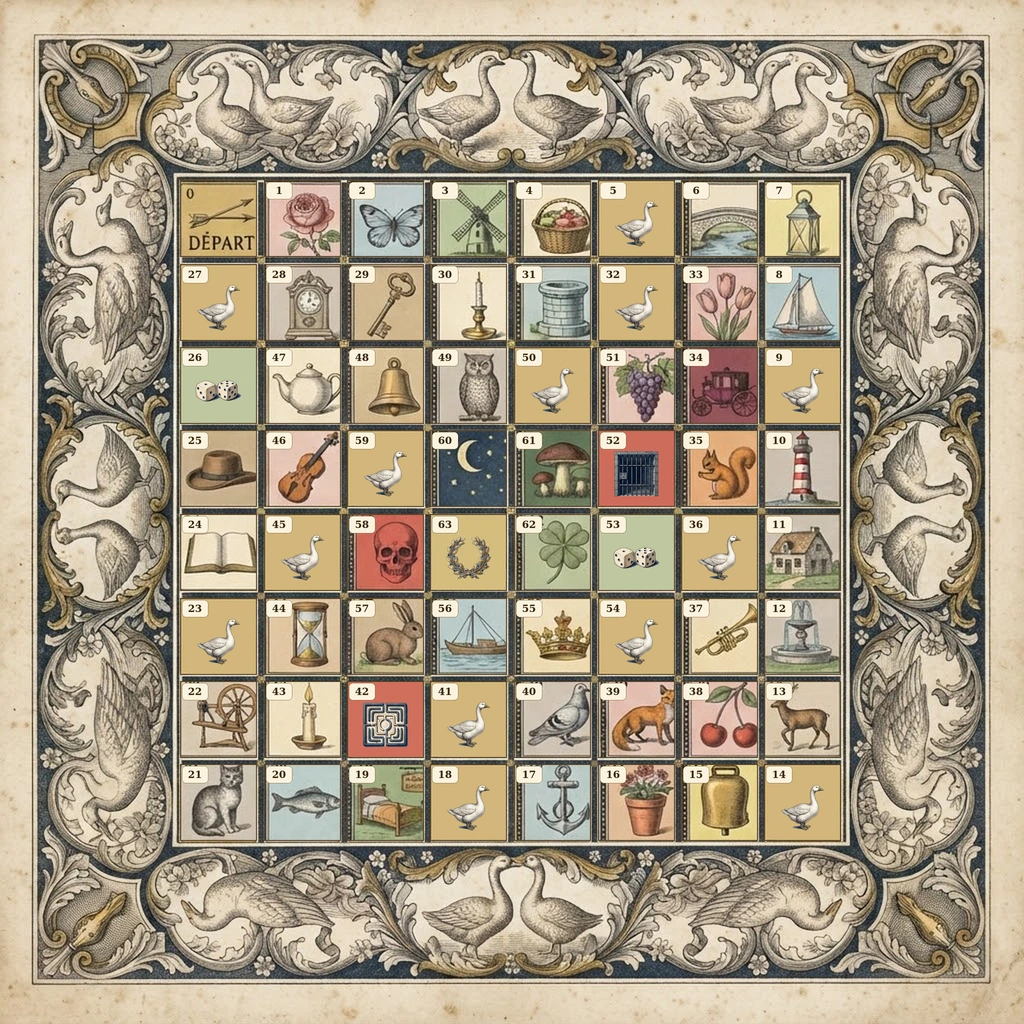
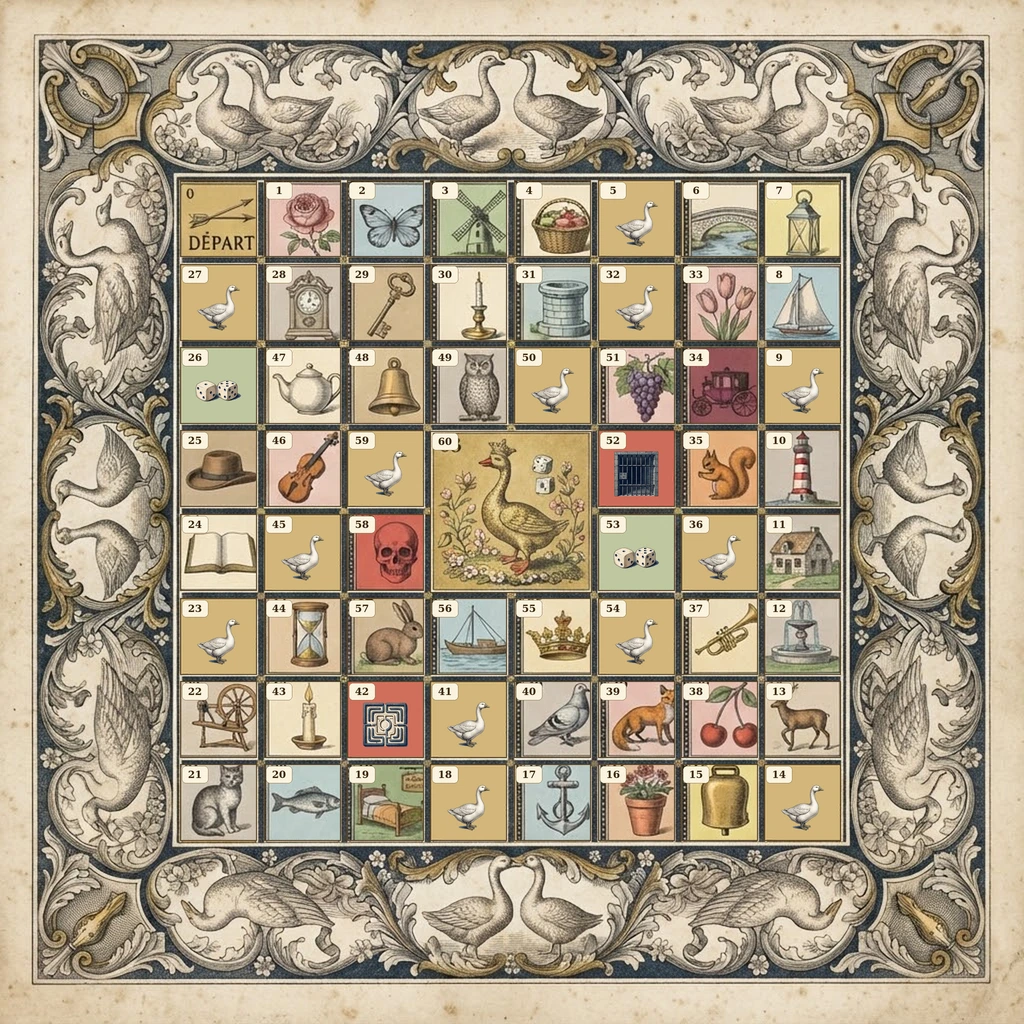
Oie: grande case d'arrivée 2x2 au centre (arrivée case 60)
Claude-Session: https://claude.ai/code/session_01UTaypXBnC3UMfvWUL5q9hs

Changed region(s): [[0.4062, 0.4062, 0.5938, 0.5938]]

diff --git a/oie/index.html b/oie/index.html
@@ -120,17 +120,17 @@ let H=null,peer=null,conns=[],isHost=false,myIdx=0,V=null,roomCode='';
 function nextRound(){}
 
 const GEESE=[5,9,14,18,23,27,32,36,41,45,50,54,59];
-const SPI={6:'bridge',19:'inn',26:'dice',31:'well',42:'maze',52:'prison',53:'dice',58:'skull',63:'crown'};
-const NAMES={6:'Le pont',19:'L’auberge',26:'Les dés',31:'Le puits',42:'Le labyrinthe',52:'La prison',53:'Les dés',58:'La mort',63:'Le jardin de l’oie'};
+const SPI={6:'bridge',19:'inn',26:'dice',31:'well',42:'maze',52:'prison',53:'dice',58:'skull',60:'crown'};
+const NAMES={6:'Le pont',19:'L’auberge',26:'Les dés',31:'Le puits',42:'Le labyrinthe',52:'La prison',53:'Les dés',58:'La mort',60:'Le jardin de l’oie'};
 const SPIRAL=(()=>{const n=8,g=[];let top=0,bot=n-1,left=0,right=n-1;while(top<=bot&&left<=right){for(let c=left;c<=right;c++)g.push([top,c]);top++;for(let r=top;r<=bot;r++)g.push([r,right]);right--;if(top<=bot){for(let c=right;c>=left;c--)g.push([bot,c]);bot--;}if(left<=right){for(let r=bot;r>=top;r--)g.push([r,left]);left++;}}return g;})();
 function hlog(s){H.log=s;}
 const NP=()=>H.pl.length;
-const bounce=p=>p>63?126-p:p;
+const bounce=p=>p>60?120-p:p;
 function settle(i,n,trail){
   const pl=H.pl[i];let guard=0,jumped=false,msgs=[];
   while(guard++<30){
     const p=pl.pos;
-    if(p===63){H.over=true;H.win=i;msgs.push(pl.name+' atteint le jardin de l’oie : victoire !');break;}
+    if(p===60){H.over=true;H.win=i;msgs.push(pl.name+' atteint le jardin de l’oie : victoire !');break;}
     if(GEESE.includes(p)){const nb=bounce(p+n);if(nb===p){msgs.push('Une oie, mais impossible d’avancer de '+n+' : '+pl.name+' reste sur place.');break;}pl.pos=nb;trail.push(pl.pos);H.again=true;msgs.push('Une oie ! '+pl.name+' avance encore de '+n+' et rejoue.');continue;}
     if(p===6){pl.pos=12;trail.push(12);msgs.push('Le pont : '+pl.name+' passe à la case 12.');continue;}
     if(p===19){pl.skip=1;msgs.push('L’auberge : '+pl.name+' passera un tour.');break;}
@@ -166,7 +166,7 @@ function botStep(){if(!H||H.over)return;const i=H.turn;if(!H.pl[i].bot)return;ac
 /* ================= accueil / réseau ================= */
 function showHome(){
   leave();show('home');
-  $('home').innerHTML='<img class="hero" src="icons/icon-192.png" alt=""><h1>Jeu de l’oie</h1><p class="muted">Le grand classique : 63 cases, des oies qui font avancer, un pont, un puits, une prison… Le premier au jardin de l’oie gagne. Contre des robots, ou à plusieurs avec un code.</p>'+
+  $('home').innerHTML='<img class="hero" src="icons/icon-192.png" alt=""><h1>Jeu de l’oie</h1><p class="muted">Le grand classique : 60 cases, des oies qui font avancer, un pont, un puits, une prison… Le premier au jardin de l’oie gagne. Contre des robots, ou à plusieurs avec un code.</p>'+
    '<input id="nm" maxlength="12" placeholder="Ton prénom" value="'+esc(P.name)+'">'+
    '<div class="tabs"><span>Robots :</span>'+[1,2,3,4,5].map(n=>'<button data-b="'+n+'" class="'+(P.bots===n?'on':'')+'">'+n+'</button>').join('')+'</div>'+
    '<button class="ob" id="solo">Jouer contre les robots</button>'+
@@ -180,7 +180,7 @@ function showHome(){
   $('joinB').onclick=()=>{const c=$('cd').value.trim().toUpperCase();if(c.length!==4)return toast('Le code a 4 caractères.');P.code=c;nm();joinOnline(nm(),c);};
   $('rl').onclick=rules;
 }
-function rules(){openOv('<h2>Règles</h2><div style="text-align:left;font-size:13px"><p>Lance les deux dés et avance d’autant de cases. Il faut arriver <b>exactement</b> à la case 63 : si tu dépasses, tu recules de l’excédent.</p><p>🪿 <b>Oie</b> (5, 9, 14, 18…) : tu avances encore du même nombre et tu rejoues.<br>🌉 <b>Pont</b> (6) : direction la case 12.<br>🏠 <b>Auberge</b> (19) : tu passes un tour.<br>🎲 <b>Dés</b> (26 et 53) : tu files à l’autre case des dés.<br>🪣 <b>Puits</b> (31) et ⛓ <b>prison</b> (52) : tu restes bloqué jusqu’à ce qu’un autre joueur arrive sur la case.<br>🌀 <b>Labyrinthe</b> (42) : retour à la case 30.<br>💀 <b>Mort</b> (58) : retour au départ.<br>👑 <b>63</b> : le jardin de l’oie, tu gagnes !</p><p>Au premier lancer, un 6 + 3 t’envoie à la case 26 et un 5 + 4 à la case 53.</p></div><button class="ob" id="x">OK</button>');$('x').onclick=closeOv;}
+function rules(){openOv('<h2>Règles</h2><div style="text-align:left;font-size:13px"><p>Lance les deux dés et avance d’autant de cases. Il faut arriver <b>exactement</b> à la case 60 : si tu dépasses, tu recules de l’excédent.</p><p>🪿 <b>Oie</b> (5, 9, 14, 18…) : tu avances encore du même nombre et tu rejoues.<br>🌉 <b>Pont</b> (6) : direction la case 12.<br>🏠 <b>Auberge</b> (19) : tu passes un tour.<br>🎲 <b>Dés</b> (26 et 53) : tu files à l’autre case des dés.<br>🪣 <b>Puits</b> (31) et ⛓ <b>prison</b> (52) : tu restes bloqué jusqu’à ce qu’un autre joueur arrive sur la case.<br>🌀 <b>Labyrinthe</b> (42) : retour à la case 30.<br>💀 <b>Mort</b> (58) : retour au départ.<br>👑 <b>60</b> : le jardin de l’oie, tu gagnes !</p><p>Au premier lancer, un 6 + 3 t’envoie à la case 26 et un 5 + 4 à la case 53.</p></div><button class="ob" id="x">OK</button>');$('x').onclick=closeOv;}
 function leave(){clearTimeout(H&&H.bt);clearTimeout(anim.t);try{conns.forEach(c=>c.conn&&c.conn.close());}catch(e){}try{if(peer)peer.destroy();}catch(e){}peer=null;conns=[];H=null;V=null;isHost=false;built=false;endDialog.paid=0;closeOv();}
 function startGame(humans,bots){
   const names=humans.slice();const bn=['Luna','Comète','Orion','Plume','Nougat'];for(let i=0;i<bots;i++)names.push(bn[i]);
@@ -221,7 +221,7 @@ function send(a){if(isHost){const r=act(myIdx,a);if(r==='invalid')toast('Tu ne p
 
 /* ================= affichage ================= */
 let built=false;const anim={t:null,steps:[],i:-1,shown:{}};
-function cellXY(pos,k,n){const [r,c]=SPIRAL[pos],u=100/8;let ox=0,oy=0;if(n>1){const cols=Math.ceil(Math.sqrt(n)),rr=Math.floor(k/cols),cc=k%cols;ox=(cc-(cols-1)/2)*u*.28;oy=(rr-(Math.ceil(n/cols)-1)/2)*u*.22;}return [c*u+u/2+ox,r*u+u/2+oy+u*.18];}
+function cellXY(pos,k,n){if(pos>=60){const cols=Math.ceil(Math.sqrt(n)),rr=Math.floor(k/cols),cc=k%cols;return [50+(cc-(cols-1)/2)*11,50+(rr-(Math.ceil(n/cols)-1)/2)*10+4];}const [r,c]=SPIRAL[pos],u=100/8;let ox=0,oy=0;if(n>1){const cols=Math.ceil(Math.sqrt(n)),rr=Math.floor(k/cols),cc=k%cols;ox=(cc-(cols-1)/2)*u*.28;oy=(rr-(Math.ceil(n/cols)-1)/2)*u*.22;}return [c*u+u/2+ox,r*u+u/2+oy+u*.18];}
 function buildBoard(v){
   const u=100/8;let h='<div id="bw"><div id="bd"><div id="fl">';
   v.pl.forEach((q,i)=>{h+='<img class="pw" data-i="'+i+'" src="img/pw'+q.pw+'.webp" alt="">';});

diff --git a/oie/sw.js b/oie/sw.js
@@ -1,4 +1,4 @@
-const CACHE='jeux-oie-v4';
+const CACHE='jeux-oie-v5';
 const FILES=["./", "./index.html", "./peerjs.min.js", "./manifest.webmanifest", "./icons/icon-192.png", "./icons/icon-512.png", "./img/board.webp", "./img/i_goose.webp", "./img/i_bridge.webp", "./img/i_inn.webp", "./img/i_well.webp", "./img/i_maze.webp", "./img/i_prison.webp", "./img/i_skull.webp", "./img/i_dice.webp", "./img/i_crown.webp", "./img/pw0.webp", "./img/pw1.webp", "./img/pw2.webp", "./img/pw3.webp", "./img/pw4.webp", "./img/pw5.webp", "./img/d1.webp", "./img/d2.webp", "./img/d3.webp", "./img/d4.webp", "./img/d5.webp", "./img/d6.webp"];
 self.addEventListener('install',e=>{e.waitUntil(caches.open(CACHE).then(c=>c.addAll(FILES)).then(()=>self.skipWaiting()));});
 self.addEventListener('activate',e=>{e.waitUntil(caches.keys().then(ks=>Promise.all(ks.filter(k=>k.startsWith('jeux-oie-')&&k!==CACHE).map(k=>caches.delete(k)))).then(()=>self.clients.claim()));});

diff --git a/index.html b/index.html
@@ -114,7 +114,7 @@ a.g .tag{position:absolute;right:5px;top:5px;font-size:11px;font-weight:800;back
 </script>
 <script>
 (function(){
-  const VERSION='n°198 · 28/10 21:40';
+  const VERSION='n°199 · 28/10 21:43';
   const ver=document.getElementById('ver'),upd=document.getElementById('upd');
   ver.textContent='Version '+VERSION;
   document.querySelectorAll('a.g').forEach(x=>{const h=x.getAttribute('href');if(h&&!h.includes('?'))x.setAttribute('href',h+'?v='+encodeURIComponent(VERSION));const im=x.querySelector('img');if(im)im.src=im.getAttribute('src')+'?v='+encodeURIComponent(VERSION);x.addEventListener('click',()=>{try{localStorage.setItem('hub-last',x.dataset.n+'|'+x.getAttribute('href')+'|'+im.getAttribute('src'));}catch(e){}});});
